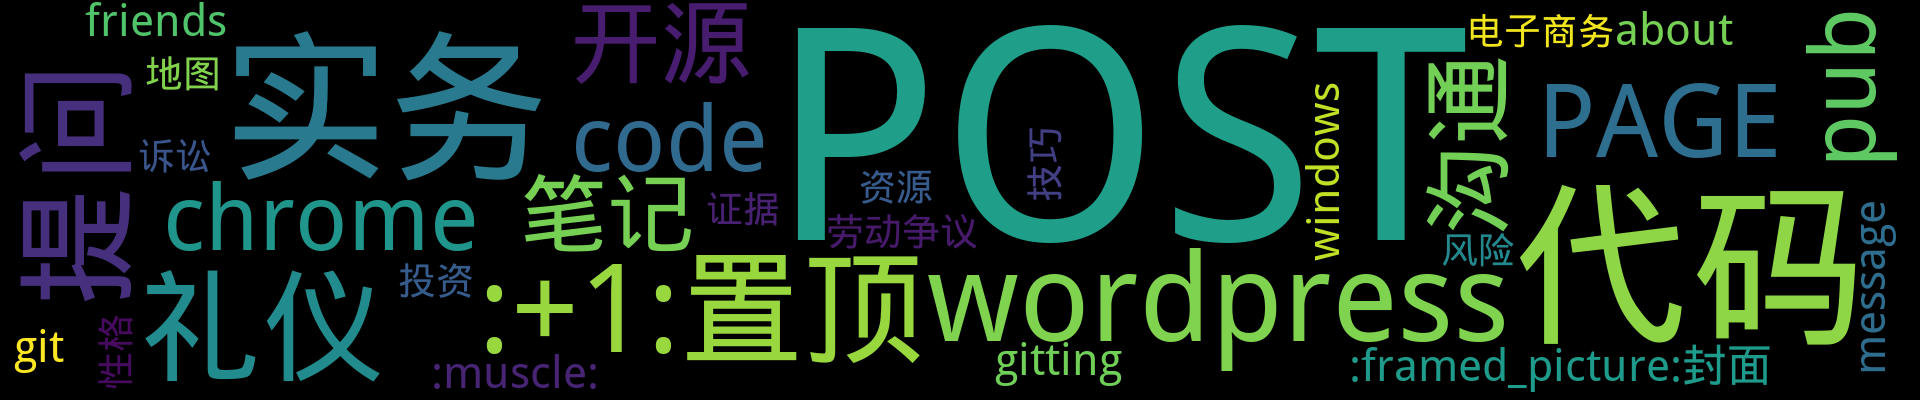
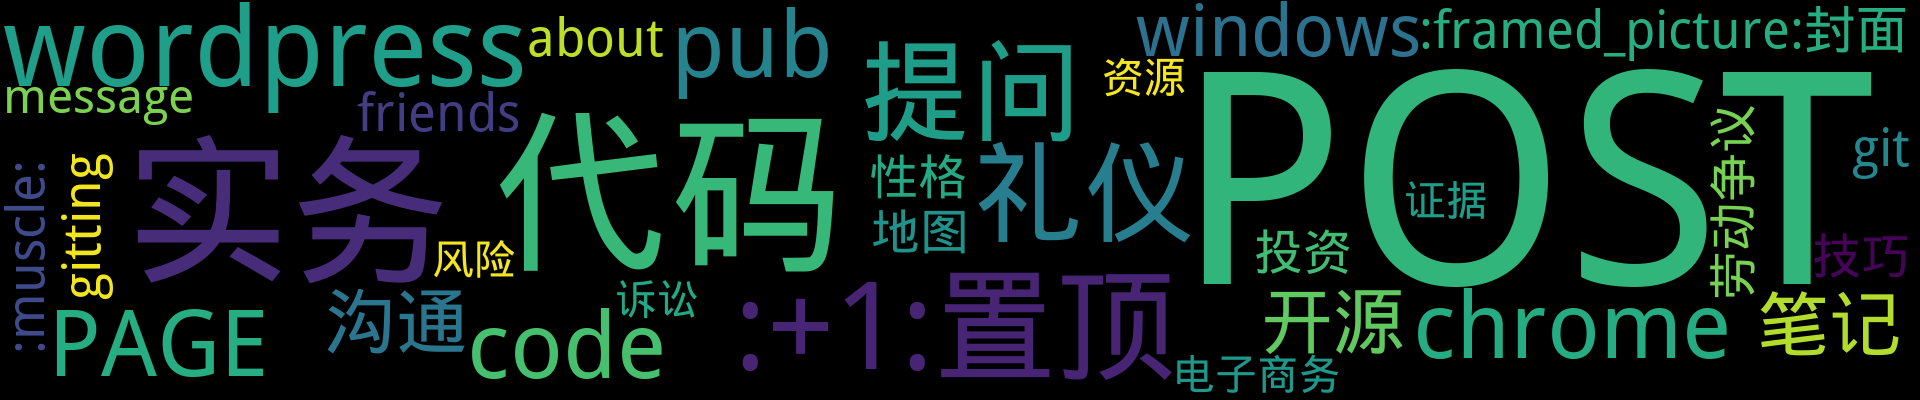
Update from Github Action

diff --git a/README.md b/README.md
@@ -19,7 +19,7 @@
 <p align='center'>
     <img src="https://badgen.net/badge/labels/38"/>
     <img src="https://badgen.net/github/issues/fydy/elaw"/>
-    <img src="https://badgen.net/badge/last-commit/2020-02-26 04:06:34"/>
+    <img src="https://badgen.net/badge/last-commit/2020-02-26 11:14:34"/>
     <img src="https://badgen.net/github/forks/fydy/elaw"/>
     <img src="https://badgen.net/github/stars/fydy/elaw"/>
     <img src="https://badgen.net/github/watchers/fydy/elaw"/>
@@ -54,6 +54,20 @@ is
 - [简单生活](https://github.com/fydy/elaw/issues/36)  <sup>0 :speech_balloon:</sup>  	 
 - [提问的智慧](https://github.com/fydy/elaw/issues/19)  <sup>0 :speech_balloon:</sup>  	 
 ## 最新 :new: 
+
+#### [Office2019 VOL下载、安装与激活](https://github.com/fydy/elaw/issues/48) <sup>0 :speech_balloon:</sup> 	 2020-02-26 11:13:57
+
+:label: : [POST](https://github.com/fydy/isblog/labels/POST), [windows](https://github.com/fydy/isblog/labels/windows)
+
+- 卸载旧版本Office
+从 PC 卸载 Office
+```
+https://support.office.com/zh-cn/article/%E4%BB%8E-pc-%E5%8D%B8%E8%BD%BD-office-9dd49b83-264a-477a-8fcc-2fdf5dbf61
+
+[更多>>>](https://github.com/fydy/elaw/issues/48)
+
+---
+
 
 #### [WPS Office 2019](https://github.com/fydy/elaw/issues/47) <sup>0 :speech_balloon:</sup> 	 2020-02-21 05:13:07
 
@@ -113,17 +127,6 @@ cat /etc/hosts
 - docker cp 0699dfed9a
 
 [更多>>>](https://github.com/fydy/elaw/issues/43)
-
----
-
-
-#### [qablog](https://github.com/fydy/elaw/issues/42) <sup>0 :speech_balloon:</sup> 	 2019-11-28 06:41:41
-
-:label: : [开源](https://github.com/fydy/isblog/labels/%E5%BC%80%E6%BA%90)
-
-自动生成Github issue 静态网站，具体效果可以访问：[E-Law](https://fydy.github.io/qablog)，基于 GitHub Issues 的博客系统，技术栈为 React 全家桶。
-
-[更多>>>](https://github.com/fydy/elaw/issues/42)
 
 ---
 
@@ -194,8 +197,9 @@ cat /etc/hosts
 </details>
 
 <details>
-<summary>POST	<sup>37:newspaper:</sup></summary>
+<summary>POST	<sup>38:newspaper:</sup></summary>
 
+- [Office2019 VOL下载、安装与激活](https://github.com/fydy/elaw/issues/48)  <sup>0 :speech_balloon:</sup>  	 
 - [WPS Office 2019](https://github.com/fydy/elaw/issues/47)  <sup>0 :speech_balloon:</sup>  	 
 - [linux服务器下载google drive大文件](https://github.com/fydy/elaw/issues/46)  <sup>0 :speech_balloon:</sup>  	 
 - [使用fiddler实现手机抓包](https://github.com/fydy/elaw/issues/45)  <sup>0 :speech_balloon:</sup>  	 
@@ -312,8 +316,9 @@ cat /etc/hosts
 </details>
 
 <details>
-<summary>windows	<sup>1:newspaper:</sup></summary>
+<summary>windows	<sup>2:newspaper:</sup></summary>
 
+- [Office2019 VOL下载、安装与激活](https://github.com/fydy/elaw/issues/48)  <sup>0 :speech_balloon:</sup>  	 
 - [解决windows系统80端口被占用问题](https://github.com/fydy/elaw/issues/22)  <sup>0 :speech_balloon:</sup>  	 
 
 
